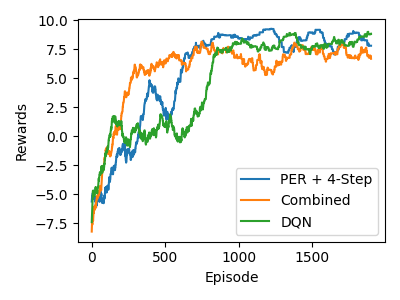
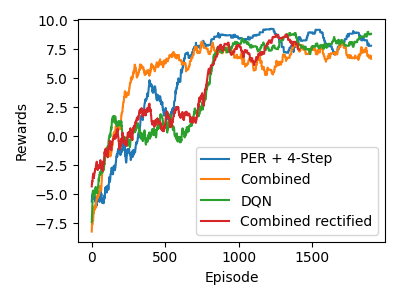
new plots

diff --git a/src/hockey-env/plots_for_report.py b/src/hockey-env/plots_for_report.py
@@ -99,7 +99,7 @@ plot_rewards([(tournament_agent_path, "4 Steps"),(n_step_6_path, "6 Steps"),(n_s
 plot_rewards([(tournament_agent_path, "Alpha:0.2 Beta:0.6"),(prio_alpha_04, "Alpha:0.4 Beta:0.6"), (classic_dqn, "DQN"),(prio_alpha_02_beta_04, "Alpha:0.2 Beta:0.4") ], episodes = int(1500), name = "rewards_alpha_beta")
 plot_rewards([(tournament_agent_path, "4 N steps with PER "),(no_prio_n_4, "4 N steps without PER"), (classic_dqn, "DQN")], episodes = int(2000), name = "rewards_no_prio")
 
-plot_rewards([(tournament_agent_path, "PER + 4-Step"),(Combined_n_4, "Combined"), (classic_dqn, "DQN")], episodes = int(2000), name = "rewards_vs_weak")
+plot_rewards([(tournament_agent_path, "PER + 4-Step"),(Combined_n_4, "Combined"), (classic_dqn, "DQN"), (bigger_nn, "Combined rectified")], episodes = int(2000), name = "rewards_vs_weak")
 plot_rewards([(Combined_n_4,"50 games"),(Combined_n_4_ten_games, "10 games")], episodes = int(2000), name = "rewards_combined_vs_ten_games")
 
 plot_rewards([(bigger_lr, "bigger_lr"),(bigger_nn, "bigger_nn"), (Combined_n_4, "Combined_n_4")], episodes = int(2000), name = "rewards_bigger_lr_nn")
